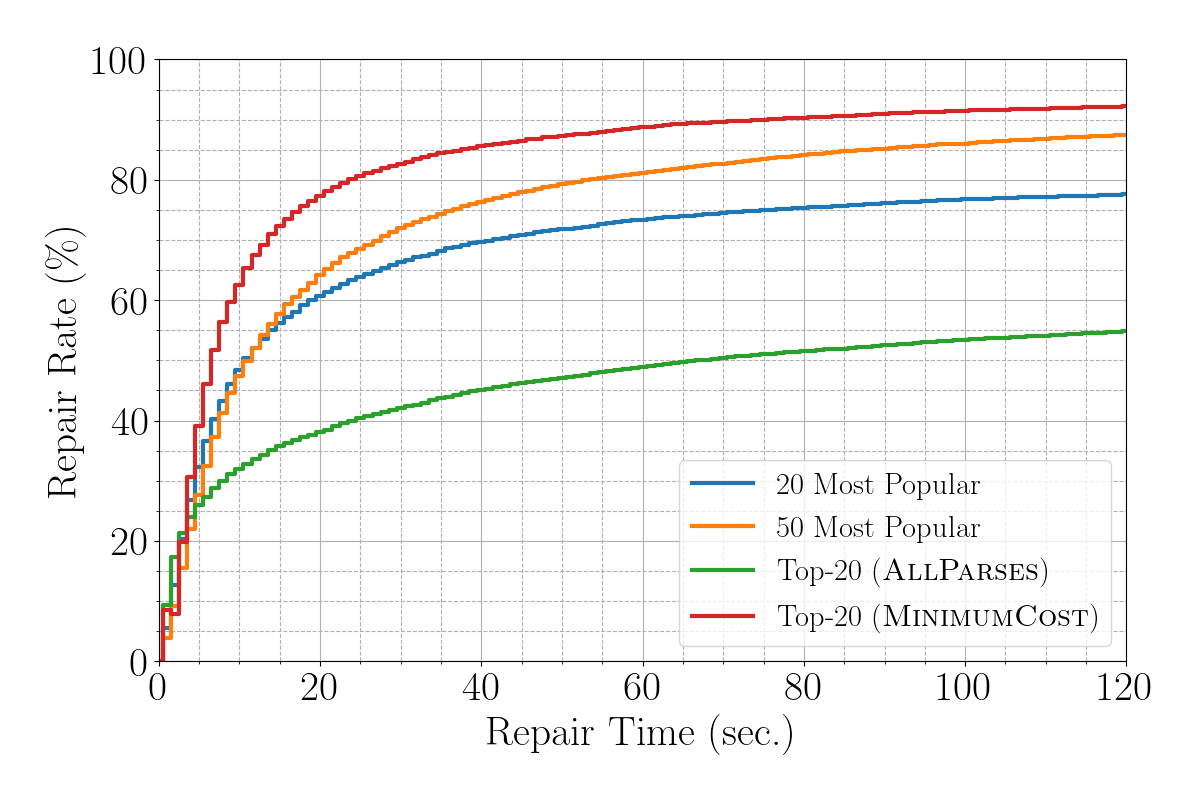
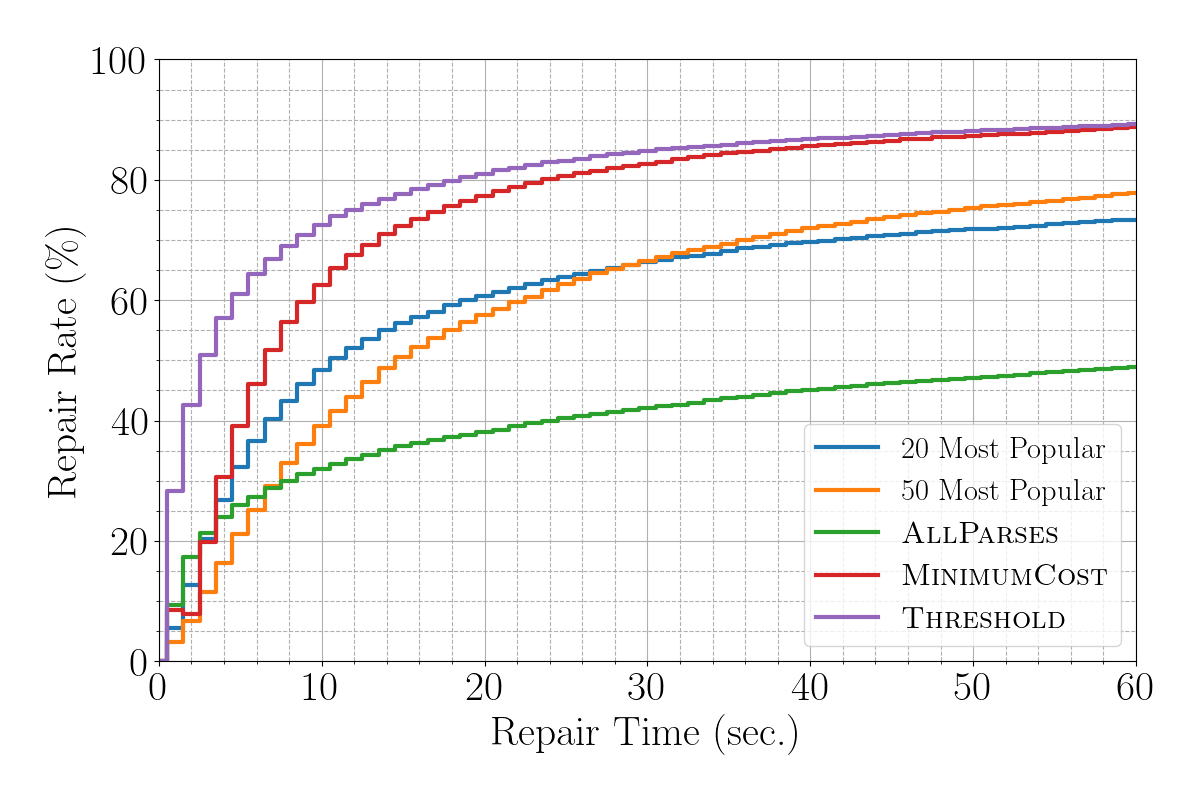
Eval pass and space saving

diff --git a/paper/oopsla22-submission/evaluation.tex b/paper/oopsla22-submission/evaluation.tex
@@ -19,8 +19,8 @@ evaluation that addresses four questions:
 % \subsection{Implementation} \label{sec:eval:gen_method}
 
 \mypara{Training Dataset}
-For our evaluation, we use the \python dataset we used in our error data
-analysis in \autoref{sec:error-analysis} gathered from
+For our evaluation, we use the same \python dataset that we used in our error
+data analysis in \autoref{sec:error-analysis} gathered from
 PythonTutor.com~\citep{Guo2013} between the years 2017 and 2018. The dataset has
 more than 1,100,000 usable erroneous Python programs and their respective fixes.
 The programs have an average length of \emph{87 tokens}, while the abstracted
@@ -28,15 +28,15 @@ token sequences have a much shorter average of \emph{43 tokens}. We choose
 15,000 random programs from the dataset for all our tests, and the rest we use
 as our training set.
 
-We first learn a PCFG on the training set of fixed programs to learn
-the probabilities for each production rule in the \emph{full \python
-grammar}. \toolname then extracts the abstracted token sequences for all
-programs in the training set. Next, while the full \python grammar has
-\emph{455 possible terminal error production rules}, in reality only \emph{340 error rules} are ever used in our dataset.
-We arrive at this set of error rules by parsing all the erroneous programs in
-the training set with the ECE-Parser and the "diff" error rules, as described in
-\autoref{sec:overview:train}. Each program is assigned as labels these
-error rules that make the ECE-Parser parse the erroneous program successfully.
+We first learn a PCFG on the training set of fixed programs to learn the
+probabilities for each production rule in the \emph{full \python grammar}.
+\toolname then extracts the abstracted token sequences for all programs in the
+training set. Next, while the full \python grammar has \emph{455 possible
+terminal error production rules}, in reality, only \emph{340 error rules} are
+ever used in our dataset and are assigned as \emph{labels}. We arrive at this
+set of error rules by parsing all the erroneous programs in the training set
+with the ECE-Parser and the `diff' error rules, as described in
+\autoref{sec:whole-system:error-rules}.
 
 \mypara{Transformer Classifier}
 \toolname's error rule prediction uses a Transformer classifier with \emph{six}
@@ -44,15 +44,14 @@ transformer blocks, that each has a fully-connected hidden layer of 256 neurons
 and 12 attention heads. The output of the transformer blocks is then connected
 to a \dnn based classifier with \emph{two} fully-connected hidden layers of 256
 and 128 neurons respectively. The neurons use rectified linear units (ReLU) as
-their activation function \citep{Nair2010-xg}, while the output layer uses the
-sigmoid function for each class \citep{Nielsen2015-pu}. Additionally, the are
-\emph{two input embedding layers} of a length of 128, one for input tokens and
-one for their positions in the sequence. We also limit the input
-abstracted token sequences to a length of 128, which covers $95.7\%$ of the
-training set, without the need of pruning them. Finally, the Transformer
-classifier was trained using an \textsc{Adam} optimizer \citep{Kingma2014-ng}, a
-variant of stochastic gradient descent that converges faster, for a total of 50
-epochs.
+their activation function , while the output layer uses the sigmoid function for
+each class. Additionally, the are \emph{two input embedding layers} of a length
+of 128, one for input tokens and one for their positions in the sequence. We
+also limit the input abstracted token sequences to a length of 128 units, which
+covers $95.7\%$ of the training set, without the need of pruning them. Finally,
+the Transformer classifier was trained using an \textsc{Adam} optimizer
+\citep{Kingma2014-ng}, a variant of stochastic gradient descent, for a total of
+50 epochs.
 
 \subsection{RQ1: Accuracy}
 \label{sec:eval:accuracy}
@@ -72,15 +71,16 @@ the abstracted token sequences and used the full \textsc{Original} token
 sequences, whose results are presented in the first two bars of
 \autoref{fig:accuracy-results}. The next two bars show our final results using
 the \textsc{Abstracted} token sequences to train the classifier. Finally, the
-last two dotted bars show the results for when a \textsc{Threshold} is set in
-order to select the predicted error rules, instead of picking the static top-K
-ones. The predicted error rule set can have a size anywhere between 1 and a
-maximum of 25 (pre-defined by us based on the top-K results).
+last two dotted bars show the results for when a probability \textsc{Threshold}
+is set in order to select the predicted error rules (instead of picking the
+static top-K ones) but using again the \textsc{Abstracted} sequences as input.
+The predicted error rule set can have a size anywhere between 1 and a maximum of
+20 rules.
 
 The blue bars show the accuracy on the full test set of \textsc{All} 15,000 test
-programs, while the green bars show the results on the subset of the
-\textsc{Rare} programs, \ie the programs that did not include any of the 50 most
-popular error rules, that amount only for 4.8\% of our test set.
+programs, while the green bars show the results on a subset of \textsc{Rare}
+programs, \ie programs that did not include any of the 50 most popular error
+rules. The \textsc{Rare} programs amount only for 4\% of our test set.
 
 The \textsc{Original} predictor, even with the Top-50 predicted error rules is
 less accurate than the Top-20 predictions of the \textsc{Abstracted}, with an
@@ -98,7 +98,7 @@ Finally, we observe that our \textsc{Abstracted} classifiers generalize
 efficiently for our dataset of erroneous \python programs and is almost as
 accurate for the \textsc{Rare} programs as the rest of the dataset with a
 73.32\% Top-20 accuracy (88.81\% Top-50 accuracy). The same holds for the
-\textsc{Threshold} predictions with a 69.83\% accuracy.
+\textsc{Threshold} predictions with a 69.83\% \textsc{Rare} accuracy.
 
 \begin{framed}
   \noindent \toolname's transformer classifier learns to encode programs with
@@ -114,16 +114,17 @@ accurate for the \textsc{Rare} programs as the rest of the dataset with a
 
 Next we evaluate \toolname's end-to-end accuracy and preciseness in generating
 valid parses for programs with syntax errors. For all of our tests we limit
-\toolname's parsing time to \emph{5 mins} and run our experiments on the 15,000
-program  test set. Additionally, we use here the highest-performing transformer
-classifier, the \textsc{Abstracted} classifier.
+\toolname's parsing time to \emph{5 mins} and run our experiments on the
+15,000-program test set. Additionally, we use here the highest-performing
+transformer classifiers, \ie the \textsc{Abstracted} and \textsc{Threshold}
+classifiers.
 
-We compare \emph{two versions} of our \toolname implementation
-(\textsc{AllParses} and \textsc{MinimumCost}) against two versions of the
-error-correcting parser with a static selection of the 20 and 50 most popular
-error production rules in our training set. We do this because we
-observe in our training set that the 50 most popular error rules are used for
-parsing as much as \emph{86\%} of the dataset.
+We compare \emph{three versions} of our \toolname implementation
+(\textsc{AllParses}, \textsc{MinimumCost} and \textsc{Threshold}) against two
+versions of the EC-Parser with a static selection of the 20 and 50 most popular
+error production rules in our training set. We make this choice because we
+observe that the 50 most popular error rules are used as labels for as much as
+\emph{86\%} of the training set.
 
 Our \textsc{AllParses} ECE-Parser and \textsc{MinimumCost} ECE-Parser both use
 the \emph{Top-20 predictions} from our \textsc{Abstracted} classifier to parse
@@ -133,51 +134,37 @@ similarly to the original ECE-Parser described in \citep{Aho_1972}. We use a
 maximum repair cost of 2 edits (\ie a maximum of 2 insertions, deletions or
 replacements) to limit the search space. The \textsc{MinimumCost} version
 however keeps always the minimum-edit repair and discards all other states that
-may lead to a higher cost. This allows for a higher maximum cost of 10 edits.
-Finally, while \textsc{AllParses} can generate a large number of repairs, we
-keep only the top 3 repairs after filtering with a static code checker
-(\textsc{Pylint}, \url{https://www.pylint.org/}) as most developers will
-consider at most five suggestions before falling back to manual debugging
-\citep{Kochhar2016-oc, Parnin2011-ce}.
+may lead to a higher cost. This allows for a higher maximum cost of 10 edits. We
+use the same ECE-Parser and cost as in \textsc{MinimumCost} for our
+\textsc{MinimumCost} parser. Finally, while \textsc{AllParses} can generate a
+large number of repairs, we keep only the top 3 repairs after filtering with a
+static code checker (\textsc{Pylint}, \url{https://www.pylint.org/}) as most
+developers will consider at most five suggestions before falling back to manual
+debugging \citep{Kochhar2016-oc, Parnin2011-ce}.
 
 \autoref{tab:seq2parse_full_results} shows the percentage of test programs that
 each of these four versions can parse successfully (\ie the parse accuracy), the
 rare programs parse accuracy, and the amount of parses that match the one that
-user compiled. We observe that the Top-20 predictions with the
-\textsc{MinimumCost} ECE-Parser \emph{outperforms} every other option with
-94.25\% parse accuracy and 94.01\% rare parse accuracy. It also
-generates the intended user parse for 20.55\% of the set, \ie over 1 out 5 of the
-cases. The 20 most popular ECE-Parser with 79.87\% parse accuracy and 65.01\%
-rare parse accuracy is much less accurate, and is 4.24\% less likely to
-generate the user parse, while the 50 most popular is slightly less accurate
-with 91.91\% and 82.70\% accuracy, as expected from the usage of a large number
-of popular error rules. The 50 most popular ECE-Parser has also a high user fix
-accuracy of 18.61\%. The \textsc{AllParses} ECE-Parser has a lower parse
-accuracy of 61.82\%, however it manages to generate the user fix
-33.92\% of the time and achieve a high 72.22\% rare accuracy.
-%It thus achieves to
-%parse one out of three programs with syntax errors, while also being effective
-%to parse even the rare programs. recommends removing due to space
+the user compiled. We observe that the \textsc{MinimumCost} parser
+\emph{outperforms} every other option with 94.25\% parse accuracy and 94.01\%
+rare parse accuracy. It also generates the intended user parse for 20.55\% of
+the set, \ie over 1 out 5 of the cases. The 20 most popular parser with 79.87\%
+parse accuracy and 65.01\% rare parse accuracy is much less accurate, and is
+4.24\% less likely to generate the user parse, while the 50 most popular is
+slightly less accurate with 90.89\% and 81.26\% accuracy, as expected from the
+usage of a large number of popular error rules. The 50 most popular parser has
+also a high user fix accuracy of 18.56\%. The \textsc{AllParses} parser has a
+lower parse accuracy of 61.82\%, however it manages to generate the user fix
+33.92\% of the time and achieve a high 72.22\% rare accuracy. Finally, the
+\textsc{Threshold} parser is almost as accurate as the efficient
+\textsc{MinimumCost} parser with 94.09\% parse accuracy and 93.42\% rare parse
+accuracy, while achieving a slightly higher user fix accuracy of 21.19\%.
 
 \begin{framed}
   \noindent \toolname can \emph{parse and repair 94.25\%} of programs with
   syntax errors, while also generating \emph{the user fix over 1 out 5 of
   cases}.
 \end{framed}
-
-% \begin{table}[t]
-%   \centering
-%   \begin{tabular}{l||cccc}
-%     Error Rule Approach            & Parse Accuracy & User Parse Rate & Parse time & Speedup \\
-%     \hline
-%     20 Most Popular                & 79.81\% & 16.31\% & 4.8 sec  & 45.8 sec \\
-%     50 Most Popular                & 90.03\% & 18.55\% & 10.6 sec & 37.1 sec \\
-%     Top-20 (\textsc{AllParses})   & 59.31\% & 30.57\% & 15.6 sec & 57.4 sec \\
-%     Top-20 (\textsc{MinimumCost}) & 92.45\% & 19.95\% & 5.3 sec  & 68.0 sec \\
-%   \end{tabular}
-%   \caption{Experimental results of \toolname's repair approaches.}
-%   \label{tab:seq2parse_full_results}
-% \end{table}
 
 \begin{figure}[t]
   \centering
@@ -189,9 +176,10 @@ accuracy of 61.82\%, however it manages to generate the user fix
         Approach              & Accuracy         & Accuracy         & Accuracy \\
         \hline
         20 Most Popular       & 79.87\%          & 65.01\%          & 16.31\% \\
-        50 Most Popular       & 91.91\%          & 82.70\%          & 18.61\% \\
+        50 Most Popular       & 90.89\%          & 81.26\%          & 18.56\% \\
         \textsc{AllParses}    & 61.82\%          & 72.22\%          & \textbf{33.92\%} \\
         \textsc{MinimumCost}  & \textbf{94.25\%} & \textbf{94.01\%} & 20.55\% \\
+        \textsc{Threshold}    & 94.09\%          & 93.42\%          & 21.19\% \\
       \end{tabular}
     }
     \caption{Experimental results of \toolname's repair approaches.}
@@ -220,48 +208,53 @@ accuracy of 61.82\%, however it manages to generate the user fix
 Next we evaluate \toolname's efficiency by measuring how many programs it is
 able to parse. We limit each ECE-Parser to 5 minutes. (In general the procedure
 is undecidable, and we conjecture that a longer timeout will diminish the
-practical usability for novices.) We compare the efficiency of \toolname for all
-the versions of \autoref{tab:seq2parse_full_results}.
+practical usability for developers.) We compare the efficiency of \toolname for
+all the versions of \autoref{tab:seq2parse_full_results}.
 
 \autoref{fig:tool-repair-rate} shows the cumulative distribution function of all
-\toolname approaches' repair rates over their parse time. We observe that using
-the top 20 error production rule predictions is the most efficient while
-maintaining the highest parse accuracy at all times, with a repair rate of
-78.10\% within 20 seconds and a median parse time of 5.3 seconds.
+\toolname approaches' repair rates over their repair time. We observe that using
+\textsc{Threshold} predictions with the \textsc{MinimumCost} ECE-Parser is the
+most efficient and it maintains a highest parse accuracy at all times, with a
+repair rate of 81.59\% within 20 seconds and a median parse time of 2.5 seconds.
+The \textsc{MinimumCost} with the top 20 error rule predictions is still very
+efficient with a repair rate of 78.10\% within 20 seconds and a median parse
+time of 5.3 seconds.
 
 We observe that, using a fixed set of the 20 and 50 most popular rules for
-\toolname to parse programs with syntax errors, a 61.41\% and 65.20\%
-respectively within 20 seconds, and median parse times of 7.0 and 10.1 seconds
-respectively. The 50 most popular ECE-Parser is parses less programs until the
-45 seconds but the extra number of error rules aids the ECE-Parser to parse more
-after that point and outperform the 20 most popular ECE-Parser.
+\toolname to parse programs with syntax errors (with the \textsc{MinimumCost}
+ECE-Parser), repairs 61.41\% and 58.61\% of the programs respectively within 20
+seconds, and have median parse times of 7.0 and 13.6 seconds respectively. The
+50 most popular ECE-Parser parses less programs until 28 seconds than the the 20
+most popular ECE-Parser, but the extra number of error rules aids the ECE-Parser
+to parse programs that the other version couldn't.
 
 We also observe that \toolname successfully parses around 38.50\% of the
 programs with its \textsc{AllParses} approach in 20 seconds and has a median
 parse time of 23.2 seconds. While this approach is much less efficient that the
-others. due to the vast amount of states is keeps internally in its data
+others, due to the vast amount of states is keeps internally in its data
 structure, it is also able to generate the exact human repair in 1 out of 3
 times which makes still a very valuable approach (\S~\ref{sec:eval:precise}).
 
 \begin{framed}
   \noindent \toolname can parse programs with syntax errors for the vast
-  majority of the test set in under 20 seconds.
+  majority of the test set in under 20 seconds with a median parse time of 2.5
+  seconds.
 \end{framed}
 
 \subsection{RQ4: Usefulness}
 \label{sec:eval:useful}
 
-% FIXME - define word for non-equivelent repairs
+% FIXME - define word for non-equivalent repairs
 
-As \toolname's is intended as an aid for programmers
-faced with parse errors, we are also interested in the subjective
-human understanding of the quality
-and helpfulness of our repairs. 31\% of repairs produced by \toolname
-using its \textsc{AllParses} approach are identical to the historical human repair
-and thus likely helpful for programmers. However, it may be that \toolname's fixes
-are still helpful for debugging even when they differ from the human
-repair (\ie \textit{non-equivelent} repairs). To investigate this hypothesis, 
-we conduct a human study of the quality and debugging helpfulness of \toolname non-equivalent fixes.
+As \toolname is intended as an aid for programmers faced with parse errors, we
+are also interested in the subjective human understanding of the quality and
+helpfulness of our repairs. Around 34\% of repairs produced by \toolname using
+its \textsc{AllParses} approach are identical to the historical human repair and
+thus likely helpful for programmers. However, it may be that \toolname's parses
+(and thus repairs) are still helpful for debugging even when they differ from
+the human repair (\ie \textit{non-equivalent} repairs). To investigate this
+hypothesis, we conduct a human study of the quality and debugging helpfulness of
+\toolname's non-equivalent repairs.
 
 \mypara{Human Study Setup.} We recruited participants from two large public
 research institutions (names omitted for blind-review) and through Twitter.
@@ -271,32 +264,31 @@ were each asked to rate 15 debugging hints randomly selected from a corpus of 50
 stimuli\footnote{All human study stimuli are included in our replication
 package at {link removed for blind review}}.
 
-We created the stimuli by selecting 50 buggy programs from the Python Tutor dataset
-for which \toolname and the historical human produced different fixes. Other than
-ensuring a wide array of difficulty (as assessed by how long the
-human took to fix the error), programs were selected randomly. Each
-stimulus consisted of a buggy program, its associated syntax
-error message, and a potential program fix presented as a \emph{debugging hint}.
-For each stimulus, we produced two versions: one where the debugging hint was
-generated by \toolname and one where the debugging hint was the historical
-human-created fix.
-Participants rated the quality and helpfulness of each debugging
-hint using a 1-5 Likert scale.
-They also indicated if the debugging hint provided helpful information beyond
-that in the Python error message %\footnote{In this study, we used error messages from Python 3.10. Compared to earlier Python versions, 3.10 includes improved error messages for Syntax Errors.}.
-Participants were unaware of if any given
-hint was generated by a human or \toolname, and participants were never shown both the
-tool-generated and human-generated repairs to the same buggy program. To be included
-in analysis, participants had to assess at
-least four stimuli. Overall, we analyze 527 unique stimuli ratings from 39 valid
-participants (246 for human-generated foxes and 281 for \toolname fixes).
+We created the stimuli by selecting 50 buggy programs from our test set for
+which \toolname and the human produced different fixes. Other than ensuring a
+wide array of difficulty (as assessed by how long the human took to fix the
+error), programs were selected randomly. Each stimulus consisted of a buggy
+program, its associated syntax error message, and a potential program fix
+presented as a \emph{debugging hint}. For each stimulus, we produced two
+versions: one where the debugging hint was generated by \toolname and one where
+the debugging hint was the human fix. Participants rated the quality and
+helpfulness of each debugging hint using a 1-5 Likert scale. They also indicated
+if the debugging hint provided helpful information beyond that in the Python
+error message.
+%\footnote{In this study, we used error messages from Python 3.10. Compared to earlier Python versions, 3.10 includes improved error messages for Syntax Errors.}.
+Participants were unaware of if any given hint was generated by a human or
+\toolname, and participants were never shown both the tool-generated and human
+fixes to the same buggy program. To be included in the analysis, participants
+had to assess at least four stimuli. Overall, we analyze 527 unique stimuli
+ratings from 39 valid participants (246 for human fixes and 281 for \toolname
+repairs).
 
 \mypara{Overall Results.} While humans in our study find that non-equivelent repairs produced by
-\toolname are lower in both quality and debugging helpfulness than those produced 
-by humans (2.9/5 helpfulness for tool-produced repairs vs 3.7/5 for human-produced 
-repairs, $p < 0.001$), humans still often find \toolname's fixes 
-helpful for debugging: participants found that \toolname repairs contained helpful 
-debugging information beyond that contained in the Python Error message 48\% of 
+\toolname are lower in both quality and debugging helpfulness than those produced
+by humans (2.9/5 helpfulness for tool-produced repairs vs 3.7/5 for human-produced
+repairs, $p < 0.001$), humans still often find \toolname's fixes
+helpful for debugging: participants found that \toolname repairs contained helpful
+debugging information beyond that contained in the Python Error message 48\% of
 the time (134/281). This additional helpful debugging information was often in both
 the content (73\% of the time) and location (55\% of the time) of the generated
 repair. Additionally, \toolname fixes are helpful for easy and hard Syntax Errors
@@ -419,7 +411,7 @@ FIXME: add last line here saying why that is.
 
 \begin{framed}
   \noindent Even when non-equivalent to the user's fix, \toolname's repairs are still useful and helpful:
-they contain debugging information beyond that in the Python error message 48\% of the time. 
+they contain debugging information beyond that in the Python error message 48\% of the time.
 Additionally, two-thirds of \toolname's fixes were either indistinguishable from
 or better than those produced by humans for helping debugging.
 \end{framed}

diff --git a/paper/oopsla22-submission/whole-system.tex b/paper/oopsla22-submission/whole-system.tex
@@ -101,13 +101,12 @@ each program with the appropriate error production rules.
 
 % \mypara{Training the Transformer Classifier}
 %
-We describe in \Cref{algo:training-classifier-algo} how we use a
-(probabilistic) grammar $G$ and a dataset $Ds$ to train a Transformer classifier
-$Model$ that can be used to predict error production rules for erroneous
-programs $\pbad$. We define the $\trainsym$ procedure in
-\Cref{algo:training-classifier-algo} that is responsible for extracting a
-machine-learning appropriate dataset $D_{ML}$ in order to train the Transformer
-classifier with $\trainDLsym$.
+\Cref{algo:training-classifier-algo} presents how we use a (probabilistic)
+grammar $G$ and a dataset $Ds$ to train a Transformer classifier $Model$ that
+can be used to predict error production rules for erroneous programs $\pbad$. We
+define the $\trainsym$ procedure in \Cref{algo:training-classifier-algo} that is
+responsible for extracting a machine-learning appropriate dataset $D_{ML}$ in
+order to train the Transformer classifier with $\trainDLsym$.
 
 The dataset $D_{ML}$ starts as an empty set. For each program pair $\pbad \times
 \pfix$, we, first, employ $\partialsym$ with the PCFG $G$ and the erroneous

diff --git a/paper/oopsla22-submission/program-abstraction.tex b/paper/oopsla22-submission/program-abstraction.tex
@@ -73,7 +73,7 @@ $S(k)$, where $i < k \leq n$.
 Let, again, $t^i_1, t^i_2, \dots, t^i_j, \dots, t^i_k, \dots, t^i_n$ be the
 input token sequence $t^i$, where at location $k$ there is a parse error and the
 parser has exhausted all possibilities and can not add any more rules in state
-$S(k + 1)$. We want to Sabstract $t^i$ by getting the longest possible part of
+$S(k + 1)$. We want to abstract $t^i$ by getting the longest possible part of
 the program that has a partial parse, \ie by finding the largest $j$ for which
 there is a rule $(X \rightarrow \alpha \cdot \beta, 0) \in S(j)$. We use this
 rule for $X$ to replace $t^i_1, t^i_2, \dots, t^i_j$ in $t^i$ with $\alpha$,

diff --git a/paper/oopsla22-submission/overview.tex b/paper/oopsla22-submission/overview.tex
@@ -540,9 +540,8 @@ transform an input sequence of tokens into a
 new sequence \citep{Sutskever_2014} and consist
 of an \emph{encoder} and a \emph{decoder}.
 %
-The encoder transforms the input token sequence
-into a \emph{abstract vector} that captures all
-the essence and context of the input sequence.
+The encoder transforms the input sequence into an \emph{abstract vector} that
+captures all the essence and context of the input.
 %
 This vector does not necessarily have a physical
 meaning and is instead an internal representation
